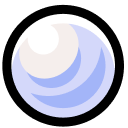
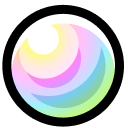
Icônes d'équipement, coffres, clés et gemmes ; outils de la mine selon l'équipement
- Images des coffres, clés (aussi sur les cases clé de la mine), gemmes (perle) et dégâts
- Pioches et pelles d'équipement branchées (une image par modèle) ; pelle et pioche 01 de base
- Boutons Pelle / Pioche de la mine : l'outil équipé
- Ouverture de coffre : plus de coffre ouvert, seulement l'objet obtenu
- Texte « Fais glisser pour te déplacer dans le village » retiré
- Cheat « Passer la FTUE » mis à jour pour les premiers pas (niveaux 1 à 16)

Changed region(s): [[0.1562, 0.3125, 0.9062, 0.9375], [0.0938, 0.1875, 0.7188, 0.6875]]

diff --git a/mine-aux-tresors.html b/mine-aux-tresors.html
@@ -357,8 +357,6 @@ button.bag-pill:active{transform:translateY(2px); box-shadow:0 1px 0 var(--panel
 #upIcon img{width:26px; height:26px}   /* same inner margins as the settings button next to it */
 .v-bottom{position:absolute; left:50%; bottom:0; width:min(480px, 100%); transform:translateX(-50%); box-sizing:border-box; padding:0 16px calc(env(safe-area-inset-bottom, 0px) + 16px); z-index:10; pointer-events:none}
 .v-bottom .mine-door{pointer-events:auto}
-.v-hint{position:absolute; left:50%; top:calc(env(safe-area-inset-top, 0px) + 62px); transform:translateX(-50%); z-index:10; pointer-events:none; padding:5px 12px; border-radius:12px;
-  background:rgba(30,60,10,.55); color:#fff; font-size:12px; white-space:nowrap; transition:opacity .4s}
 /* Village goals: 3 simple objectives with a coin reward */
 .v-goals{margin-bottom:10px; border-radius:18px; background:rgba(255,248,230,.96); color:var(--ink); box-shadow:0 5px 0 #d9b77a, 0 10px 22px rgba(0,0,0,.3); overflow:hidden}
 .vg-head{display:flex; align-items:center; gap:8px; width:100%; min-height:44px; padding:8px 14px; border:0; background:none; cursor:pointer; color:var(--ink); font-family:var(--font-body); text-align:left}
@@ -1034,7 +1032,6 @@ body.nav-on .v-bottom{padding-bottom:calc(var(--nav-h) + env(safe-area-inset-bot
     <div class="wallet-bar" id="villageWallet"></div>
     <button class="iconbtn" id="settingsBtn" aria-label="Paramètres"><svg viewBox="0 0 32 32" aria-hidden="true"><path d="M26.0 12.9 L30.3 13.5 L30.3 18.5 L26.0 19.1 L25.3 20.9 L27.9 24.3 L24.3 27.9 L20.9 25.3 L19.1 26.0 L18.5 30.3 L13.5 30.3 L12.9 26.0 L11.1 25.3 L7.7 27.9 L4.1 24.3 L6.7 20.9 L6.0 19.1 L1.7 18.5 L1.7 13.5 L6.0 12.9 L6.7 11.1 L4.1 7.7 L7.7 4.1 L11.1 6.7 L12.9 6.0 L13.5 1.7 L18.5 1.7 L19.1 6.0 L20.9 6.7 L24.3 4.1 L27.9 7.7 L25.3 11.1Z" fill="#7d3c98" stroke="#3b2245" stroke-width="2" stroke-linejoin="round"/><circle cx="16" cy="16" r="4.6" fill="#fff4dc" stroke="#3b2245" stroke-width="2"/></svg></button>
   </header>
-  <div class="v-hint" id="vHint">Fais glisser pour te déplacer dans le village</div>
   <div class="v-bottom">
     <div class="v-quest"><button class="quest-btn" id="questBtn" aria-label="Objectifs"><img src="Assets/UI/Quest.png" alt="" draggable="false">Objectifs<span class="badge" id="questBadge" hidden>!</span></button></div>
     <section class="mine-door" aria-label="Entrée de la mine">
@@ -1471,8 +1468,9 @@ const HEART = '<svg viewBox="0 0 24 24" aria-hidden="true"><path d="M12 21 C5 15
 const BOLT = `<img src="Assets/UI/Energy_Yellow.png" alt="${tr('énergie')}" draggable="false">`;
 const RADAR = '<img src="Assets/Tools/Radar.png" alt="radar" draggable="false">';
 const TOOLS = {
-  shovel: img(TL + 'Shovel.png'),
-  pickaxe: img(TL + 'Icn_Pickaxe.png'),
+  // Basic shovel and pickaxe (before the first chest): config.js > equipement > images
+  shovel: img((CFG.equipement.images || {}).pelleDeBase || TL + 'Shovel.png'),
+  pickaxe: img((CFG.equipement.images || {}).piocheDeBase || TL + 'Icn_Pickaxe.png'),
   bucket: img(TL + 'watering%20can.png'),
   bomb: img(TL + 'Bomb.png'),
 };
@@ -1875,6 +1873,7 @@ function tileClass(c, i) {
   let cls = 'tile t-' + c.t;
   if (c.t === 'dirt') { const v = c.v ?? i % 3; if (v) cls += ' v' + v; }
   if (c.t === 'stone') cls += ' s' + Math.min(3, c.max - c.hp + 1);
+  if (c.t === 'gkey') cls += ' k-' + (c.k || 'bois');
   if (c.t === 'ore') cls += ' o-' + c.ore;
   if (c.t === 'magma' && c.chain) cls += ' chain';
   if (OVERLAY.includes(c.t)) cls += ' ov';
@@ -1935,8 +1934,8 @@ function applyUnlocks() {
   $('energyChip').hidden = !has('pioche');
   $('bagPill').hidden = !S.bagSeen;
   $('upBtn').hidden = !upAllowed();
-  // First steps: the goals and the "drag the village" hint wait until the end
-  $('questBtn').hidden = inGuide(); $('vHint').hidden = inGuide();
+  // First steps: the goals wait until the end
+  $('questBtn').hidden = inGuide();
   updateBadge();
   for (const k of ['museum', 'forge', 'atelier', 'shop']) { const b = document.querySelector(`.bld[data-go="${k}"]`); if (b) b.hidden = !S.buildings[k]; }
 }
@@ -2108,9 +2107,19 @@ function setTool(t, user) {
   S.tool = t;
   document.querySelectorAll('.tool.hint').forEach(b => { if (b.dataset.tool === t) b.classList.remove('hint'); });
   document.querySelectorAll('.tool').forEach(b => b.classList.toggle('on', b.dataset.tool === t));
-  $('ghostG').innerHTML = TOOLS[t];
+  $('ghostG').innerHTML = toolIcon(t);
   if (user) { unlockAudio(); sfx('pick'); }
   save();
+}
+// The mine's shovel and pickaxe look like the equipped ones (the basic ones before the first chest)
+const TOOL_SLOT = { shovel: 'pelle', pickaxe: 'pioche' };
+function toolIcon(t) {
+  const it = TOOL_SLOT[t] && equipped(TOOL_SLOT[t]);
+  return it && GIMG[it.arch] ? img(GIMG[it.arch], tr(ARCH[it.arch].nom)) : TOOLS[t];
+}
+function paintTools() {
+  document.querySelectorAll('.tool').forEach(b => { b.querySelector('.ic').innerHTML = toolIcon(b.dataset.tool); });
+  $('ghostG').innerHTML = toolIcon(S.tool);
 }
 addEventListener('keydown', e => {
   if (!$('descendModal').hidden || !$('recapModal').hidden || !$('helpModal').hidden || !$('settingsModal').hidden || !$('bagFullModal').hidden || !$('bagViewModal').hidden || !$('liftModal').hidden) { if (e.key === 'Escape') { $('helpModal').hidden = true; closeSettings(); $('bagViewModal').hidden = true; $('liftModal').hidden = true; } return; }
@@ -3071,6 +3080,9 @@ function keyArt(k) {
   const [c, , hi] = CHEST_COL[k];
   return svgImg(`<circle cx="30" cy="50" r="18" fill="${c}" ${G_OUT}/><circle cx="30" cy="50" r="7" fill="#3b2245"/><path d="M46 44 H88 V56 H80 V68 H70 V56 H62 V64 H52 V56 H46Z" fill="${c}" ${G_OUT}/><path d="M18 40 C22 34 28 32 34 33" stroke="${hi}" stroke-opacity=".8" stroke-width="4" fill="none" stroke-linecap="round"/>${k === 'etoile' ? gStar(30, 50, 9, '#ffe36b') : ''}`, tr(EQC.coffres[k].cle));
 }
+// Key tiles in the mine: each key's own image when config.js gives one (otherwise the drawing in the CSS, .t-gkey::before)
+document.head.insertAdjacentHTML('beforeend', `<style>${CHESTS.filter(k => GIMG['cle' + gCap(k)])
+  .map(k => `.t-gkey.k-${k}::before{background-image:url("${GIMG['cle' + gCap(k)]}")}`).join('')}</style>`);
 const GEM_ICON = GIMG.gemmes ? img(GIMG.gemmes, tr('gemmes')) : svgImg(`<path d="M50 10 L86 36 L50 92 L14 36Z" fill="#ff4d7a" ${G_OUT}/><path d="M14 36 H86 M32 36 L50 92 L68 36 M32 36 L50 10 L68 36" stroke="#fff" stroke-opacity=".6" stroke-width="3" fill="none"/>`, tr('gemmes'));
 
 /* ---------- Equipment: texts ---------- */
@@ -3262,7 +3274,8 @@ function crackChest() {
   cmState = 'opening'; sfx('hit');
   const b = $('chestBtn'); b.classList.add('shake');
   setTimeout(() => {
-    b.classList.remove('shake'); b.classList.add('opened'); b.innerHTML = chestArt(cmChest, true);
+    // Once open, the chest goes away: only the item won is shown
+    b.classList.remove('shake'); b.hidden = true;
     sfx('win'); if (cmItems.length > 1) revealMany(cmItems); else revealItem(cmItem);
   }, reduced ? 0 : 900);
 }
@@ -3400,7 +3413,7 @@ function renderHero() {
   $('eqRight').innerHTML = GSLOTS.slice(3).map(slot).join('');
   const chip = (icon, v, label) => `<span class="eq-chip" title="${label}">${icon}<b>${v}</b><small>${label}</small></span>`;
   $('eqStats').innerHTML = (has('pioche') ? chip(BOLT, maxE(), tr('Énergie')) : '') + chip(img('Assets/UI/Bag.png'), bagCap(), tr('Sac'))
-    + (has('pioche') ? chip(TOOLS.pickaxe, nfG(Math.round(pickPower() * 100) / 100), tr('Dégâts')) : '')
+    + (has('pioche') ? chip(img('Assets/UI/Icon_Damage.png'), nfG(Math.round(pickPower() * 100) / 100), tr('Dégâts')) : '')
     + (open ? `<button class="eq-info" data-gstats aria-label="${tr('Tous les bonus')}">i</button>` : '');
   $('eqActions').innerHTML = open
     ? `<button class="btn" data-go="forge">${img(OW + 'Forge.png' + OW_V)}${tr('Forge')}${gearForgeReady() ? '<span class="badge">!</span>' : ''}</button>`
@@ -3766,7 +3779,6 @@ world.addEventListener('pointermove', e => {
   if (!panMoved && Math.hypot(dx, dy) > 8) {
     panMoved = true; world.classList.add('dragging');
     try { world.setPointerCapture(e.pointerId); } catch (_) {}
-    $('vHint').style.opacity = 0;
   }
   if (!panMoved) return;
   const now = performance.now(), px = cam.x, py = cam.y, dt = Math.max(1, now - pan.t);
@@ -3863,6 +3875,7 @@ $('liftClose').addEventListener('click', () => $('liftModal').hidden = true);
 $('liftModal').addEventListener('click', e => { if (e.target.id === 'liftModal') $('liftModal').hidden = true; });
 for (const b of [$('descendBtn'), $('shaftBtn')]) b.addEventListener('click', () => { unlockAudio(); sfx('pick'); openLift(); });
 function enterMine() {
+  paintTools();
   fitBoard();
   setTimeout(levelCoach, 60);
   S.introDone = true;

diff --git a/cheat.js b/cheat.js
@@ -61,17 +61,20 @@
     unlock() {
       const n = level(); S().reached = n; refresh(); msg(`Record : niveau ${n} (checkpoints débloqués)`);
     },
-    // Skips the first steps (levels 1 to 5, first return to the village, first Museum visit), like a save past
-    // level 5: same tutorial list as in start(). Reloads the page so no tutorial hand stays on screen.
+    // Skips the guided first steps (config.js > progression > guide, levels 1 to 16): every first-steps tutorial
+    // is marked as seen, the buildings of the planned returns are open, and the player starts just after the guide.
+    // Reloads the page so no tutorial hand stays on screen.
     skipFtue() {
-      const s = S();
-      for (const k of ['toucher', 'creuser', 'tresor', 'sacPlein', 'surface', 'descendre', 'bld-museum', 'prime', 'museeRetour', 'redescendre', 'ascenseur']) s.tutoSeen[k] = true;
-      for (const l of [1, 2, 3, 4, 5]) { s.tutoSeen[l] = true; s.guarDone[l] = true; }
-      s.introDone = true; s.bagSeen = true; s.buildings.museum = true;
-      if (s.bldNew) delete s.bldNew.museum;
-      s.newBuildings = (s.newBuildings || []).filter(k => k !== 'museum');
-      s.reached = Math.max(s.reached, 6);
-      if (s.level < 6) { s.level = 6; s.stayLevel = 0; M.genLevel(6); }
+      const s = S(), guide = M.CFG.progression.guide, after = guide.fin + 1;
+      for (const k of ['toucher', 'creuser', 'tresor', 'sac', 'suivant', 'energie', 'sacPlein', 'continuer', 'echanger', 'surface', 'descendre',
+        'prime', 'museeRetour', 'ascenseur', 'forge', 'atelier', 'eq-premier', 'sacBoutique', 'sacAcheter', 'objectifs', 'guideFin']) s.tutoSeen[k] = true;
+      for (const r of guide.retours) s.tutoSeen['retour-' + r] = s.tutoSeen['redescendre-' + r] = true;
+      for (let l = 1; l <= guide.fin; l++) s.tutoSeen[l] = s.guarDone[l] = true;
+      for (const k of ['museum', 'forge', 'atelier', 'shop']) s.buildings[k] = s.tutoSeen['bld-' + k] = true;
+      s.bldNew = {}; s.newBuildings = [];
+      s.introDone = true; s.bagSeen = true; s.guideBack = guide.fin;
+      s.reached = Math.max(s.reached, after);
+      if (s.level < after) { s.level = after; s.stayLevel = 0; M.genLevel(after); }
       s.screen = 'village';
       localStorage.setItem(KEY, JSON.stringify(s)); location.reload();
     },

diff --git a/config.js b/config.js
@@ -732,18 +732,23 @@ window.CONFIG = {
     // Pour une vraie image : la poser dans Assets/Gear/ et écrire son chemin ici,
     // par exemple picLourd: 'Assets/Gear/PicLourd.png'. Voir Assets/Gear/LISEZMOI.md.
     images: {
+      // Pelle et pioche de base, dans la mine, avant le premier coffre
+      pelleDeBase: 'Assets/Equipements/Shovel_01.png', piocheDeBase: 'Assets/Equipements/Pickaxe_01.png',
       // Modèles d'équipement (un par archétype)
-      picLourd: '', picEclats: '', picGivre: '',
-      pelleProspecteur: '', pelleLarge: '',
+      picLourd: 'Assets/Equipements/Pickaxe_03.png', picEclats: 'Assets/Equipements/Pickaxe_13.png',
+      picGivre: 'Assets/Equipements/Pickaxe_12.png',
+      pelleProspecteur: 'Assets/Equipements/Shovel_09.png', pelleLarge: 'Assets/Equipements/Shovel_02.png',
       gantsFer: '', gantsDynamiteur: '',
       casqueChantier: '', casqueVeine: '',
       lanterneProspecteur: '', lanterneAncienne: '',
       bottesProspecteur: '', bottesPorteBonheur: '',
       // Coffres (fermés) et clés
-      coffreBois: '', coffreArgent: '', coffreOr: '', coffreEtoile: '',
-      cleBois: '', cleArgent: '', cleOr: '', cleEtoile: '',
+      coffreBois: 'Assets/UI/Chest_Wood.png', coffreArgent: 'Assets/UI/Chest_Silver.png',
+      coffreOr: 'Assets/UI/Chest_Gold.png', coffreEtoile: 'Assets/UI/Chest_Star.png',
+      cleBois: 'Assets/UI/Key_Wood.png', cleArgent: 'Assets/UI/Key_Silver.png',
+      cleOr: 'Assets/UI/Key_Gold.png', cleEtoile: 'Assets/UI/Key_Star.png',
       // Monnaie premium
-      gemmes: '',
+      gemmes: 'Assets/UI/Icon_Pearl.png',
     },
   },
 

diff --git a/textes-en.js b/textes-en.js
@@ -26,7 +26,6 @@ window.TEXTES_EN = {
   "Articles": "Items",
   "Nouveau": "New",
   "Nouveau !": "New!",
-  "Fais glisser pour te déplacer dans le village": "Drag to move around the village",
   "Objectifs": "Goals",
   "La mine": "The mine",
   "Descendre": "Go down",

diff --git a/Assets/Gear/LISEZMOI.md b/Assets/Gear/LISEZMOI.md
@@ -42,8 +42,8 @@ Si le jeu tourne en local, faire un rechargement forcé (Cmd+Maj+R) pour éviter
 Un coffre **ouvert** reste dessiné par le jeu pour l'instant (animation d'ouverture). Pour une vraie
 animation, prévoir une planche d'images ou un Spine plus tard, côté Unity.
 
-La clé posée dans la mine (case `gkey`) est dessinée dans le CSS du jeu (`.t-gkey::before`) :
-à remplacer en même temps que `cleBois`.
+La clé posée dans la mine (case `gkey`) utilise la même image que la clé (`cleBois`, `cleArgent`…).
+Sans image, elle reste dessinée dans le CSS du jeu (`.t-gkey::before`).
 
 Pour ajouter un nouveau modèle d'équipement, l'ajouter dans `config.js > equipement > emplacements`,
 puis ajouter son nom dans `images`.
